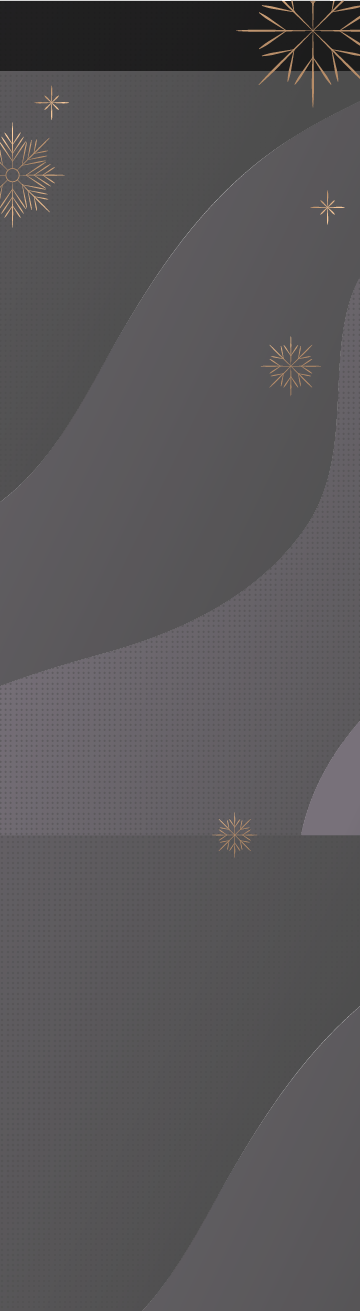
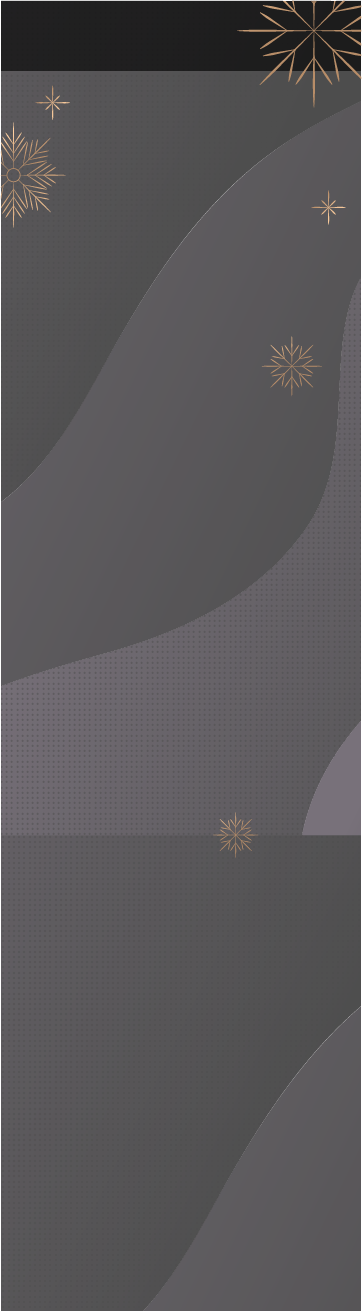
some change

diff --git a/css/style.min.css b/css/style.min.css
@@ -1,1 +1,1 @@
-.header{margin-top:55px}.header__wrapper{max-width:1000px;height:100px;margin:auto;position:relative}.header__logos{display:flex;justify-content:center;-moz-column-gap:20px;column-gap:20px}.header__logos a{height:80px;width:80px}.header .header__logos.light img{filter:invert(0) sepia(97%) saturate(5461%) hue-rotate(307deg) brightness(117%) contrast(94%)}.header .switch{cursor:pointer;position:absolute;right:10px;top:50%;transform:translateY(-50%);width:100px;height:40px;border-radius:20px;background-color:#f1c396;transition:all .5s}.header .switch__point{background-image:url(../img/SVG/moon.svg);background-size:50%;background-position:center left 40%;background-repeat:no-repeat;height:30px;width:30px;border-radius:50%;background-color:#000;position:absolute;top:50%;transform:translateY(-50%);left:5px;transition:all .5s}.header .switch__point.light{left:65px;background-image:url(../img/SVG/sun.svg);background-position:center center}.header .switch__theme{font-size:18px;position:absolute;right:20px;top:50%;transform:translateY(-50%)}.header .switch__theme.light{right:50px}.header .switch.light{background-color:#f2c76b}@font-face{font-family:Caveat;font-display:swap;src:url(../fonts/Caveat.woff2) format("woff2"),url(../fonts/Caveat.ttf2) format("ttf2");font-weight:400;font-style:normal}@font-face{font-family:Circe;font-display:swap;src:url(../fonts/Circe-Regular.woff2) format("woff2"),url(../fonts/Circe-Regular.ttf2) format("ttf2");font-weight:400;font-style:normal}.title{text-align:center;margin-top:50px}.title h1{font-size:90px;color:#fff;margin:0}.title h2{font-size:60px;color:#f1c396;margin:0}.title h1,.title h2{transition:all .5s}.title.light h1{color:#000}.title.light h2{color:#f2c76b}.team{margin-top:60px;padding-bottom:100px}.team__wrapper{max-width:1250px;margin:auto;display:flex;justify-content:space-between;flex-wrap:wrap;row-gap:60px}.team__member{height:600px;width:600px;position:relative}.team__button{position:absolute;bottom:30px;right:30px;color:#f1c396;font-size:30px;text-decoration:underline;cursor:pointer}.team__border{position:absolute;bottom:0;width:100%;height:520px;border:2px solid #fff;transition:all .5s}.team__decor{width:35px;height:35px;position:absolute;right:30px;top:30px}.team__photo{width:210px;height:310px;background-repeat:no-repeat;background-size:contain;position:absolute;left:30px;z-index:2;transition:background-image 1s ease-in-out}.team__photo img{width:90px;height:100px;position:absolute;bottom:10px;right:10px}.team__firstName,.team__secondName{color:#f1c396;font-size:56px;display:block;padding-left:300px}.team__firstName{margin-top:60px}.team__secondName{margin-bottom:40px}.team__description{max-width:485px;margin:auto;font-size:18px;line-height:140%;color:#fff;transition:all .5s}.team__description.light{color:#000}.team.light span{color:#f2c76b}.team.light p{color:#000}.team.light .team__border{border:2px solid #f2c76b}.popup{position:fixed;top:-100%;left:50%;transform:translate(-50%,-50%);width:800px;height:550px;background:#fff;z-index:5;transition:all 1s}.popup span{color:#f1c396;display:block;font-size:48px;text-align:center;margin-top:30px}.popup .close{width:20px;height:20px;position:absolute;top:20px;right:20px;cursor:pointer}.popup .close::after,.popup .close::before{content:"";position:absolute;height:2px;width:100%;background:#f1c396;transform:rotate(45deg);top:50%}.popup .close::after{transform:rotate(135deg)}.popup form{width:700px;margin:auto;margin-top:15px}.popup__text{width:100%;height:150px;border:2px solid #f1c396;outline:0;resize:none;padding-left:10px;padding-top:10px}.popup__name{display:flex;justify-content:space-between}.popup__name p{display:flex;align-items:center;-moz-column-gap:10px;column-gap:10px;position:relative}.popup__name .name{outline:0;border:2px solid #f1c396;height:35px;width:300px;padding-left:10px}.popup__name .checkbox{width:30px;margin:0;height:30px;outline:0;opacity:0}.popup__name .custom-checkbox{position:absolute;width:30px;height:30px;top:3px;right:0;margin:0;z-index:-1}.popup__name .custom-checkbox::before{content:"";position:absolute;left:-1px;width:30px;height:30px;border:1px solid #f1c396}.popup__name .custom-checkbox::after{content:"";background-image:url(../img/SVG/checked.svg);background-repeat:no-repeat;background-size:contain;background-position:center center;position:absolute;display:block;width:30px;height:30px;opacity:0}.popup__name .checkbox:checked+.custom-checkbox::after{opacity:1}.popup__list p{display:flex;justify-content:space-between;align-items:center;-moz-column-gap:15px;column-gap:15px}.popup__list .select{height:35px;border:2px solid #f1c396;flex:1;outline:0;padding-left:10px}.popup__send{margin-top:40px;display:flex;justify-content:space-between;align-items:flex-end}.popup__send .captcha-block{position:relative;width:350px;height:65px;border:1px solid grey;display:flex;align-items:center}.popup__send .captcha-block input{width:25px;height:25px}.popup__send .captcha-block p{display:flex;align-items:center;padding-left:10px;-moz-column-gap:10px;column-gap:10px}.popup__send .captcha-block img{position:absolute;right:10px;top:45%;transform:translateY(-50%);width:40px;height:40px;cursor:pointer}.popup__send .captcha-block .captcha-links{position:absolute;bottom:2px;right:10px}.popup__send .captcha-block .captcha-links a{text-decoration:none;color:grey;font-size:8px;font-family:Circe}.popup__send .submit{cursor:pointer;height:40px;font-family:Caveat;background:#f1c396;color:#000;border:none;font-size:30px;padding:0 20px}*{box-sizing:border-box}.body{margin:0;font-family:Caveat;background-repeat:no-repeat;background-position-x:center;background-size:cover;transition:background-image 1s ease-in-out;min-height:100vh}h1,p{font-family:Circe}@media screen and (max-width:1200px){.team__wrapper{justify-content:center}.body{background-size:cover}}@media screen and (max-width:800px){.popup{width:calc(100% - 100px);height:650px}.popup p{font-size:12px}.popup span{font-size:24px}.popup form{width:calc(100% - 50px)}.popup__name{align-items:center;flex-direction:column}.popup__send{flex-direction:column;align-items:center;row-gap:30px}}@media screen and (max-width:650px){.header{margin-top:180px}.header .switch{left:10px;right:auto;top:-115%}.title h1{font-size:62px}.title h2{font-size:48px}.team__member{width:calc(100% - 50px)}.team__firstName,.team__secondName{font-size:30px;padding-left:55%}.team__photo{width:160px;height:240px}.team__description{width:calc(100% - 60px);font-size:16px}.body{background-size:contain;background-repeat:repeat}}@media screen and (max-width:500px){.popup{width:calc(100% - 30px)}.popup__name{align-items:center;flex-direction:column}.popup__name p:first-child{font-size:14px;flex-direction:column;row-gap:5px}.popup__name .name{width:280px}.popup__list p{flex-direction:column;row-gap:5px;font-size:14px}.popup__list .select{flex:auto;width:280px}.popup__send{flex-direction:column;align-items:center;row-gap:30px}.popup__send .captcha-block{width:280px}}@media screen and (max-width:450px){.header{margin-top:150px}.title h1{font-size:42px}.title h2{font-size:36px}.team__member{width:calc(100% - 50px);height:520px}.team__firstName,.team__secondName{font-size:30px;padding-left:55%}.team__photo{width:110px;height:160px;top:30px}.team__photo img{width:50px;height:65px}.team__description{width:calc(100% - 60px);font-size:14px}.team__decor{width:25px;height:25px;right:10px;top:10px}.team__firstName{margin-top:30px}.team__firstName,.team__secondName{font-size:22px}.team__secondName{margin-bottom:55px}.team__border{height:450px}}
+.header{margin-top:55px}.header__wrapper{max-width:1000px;height:100px;margin:auto;position:relative}.header__logos{display:flex;justify-content:center;-moz-column-gap:20px;column-gap:20px}.header__logos a{height:80px;width:80px}.header .header__logos.light img{filter:invert(0) sepia(97%) saturate(5461%) hue-rotate(307deg) brightness(117%) contrast(94%)}.header .switch{cursor:pointer;position:absolute;right:10px;top:50%;transform:translateY(-50%);width:100px;height:40px;border-radius:20px;background-color:#f1c396;transition:all .5s}.header .switch__point{background-image:url(../img/SVG/moon.svg);background-size:50%;background-position:center left 40%;background-repeat:no-repeat;height:30px;width:30px;border-radius:50%;background-color:#000;position:absolute;top:50%;transform:translateY(-50%);left:5px;transition:all .5s}.header .switch__point.light{left:65px;background-image:url(../img/SVG/sun.svg);background-position:center center}.header .switch__theme{font-size:18px;position:absolute;right:20px;top:50%;transform:translateY(-50%)}.header .switch__theme.light{right:50px}.header .switch.light{background-color:#f2c76b}@font-face{font-family:Caveat;font-display:swap;src:url(../fonts/Caveat.woff2) format("woff2"),url(../fonts/Caveat.ttf2) format("ttf2");font-weight:400;font-style:normal}@font-face{font-family:Circe;font-display:swap;src:url(../fonts/Circe-Regular.woff2) format("woff2"),url(../fonts/Circe-Regular.ttf2) format("ttf2");font-weight:400;font-style:normal}.title{text-align:center;margin-top:50px}.title h1{font-size:90px;color:#fff;margin:0}.title h2{font-size:60px;color:#f1c396;margin:0}.title h1,.title h2{transition:all .5s}.title.light h1{color:#000}.title.light h2{color:#f2c76b}.team{margin-top:60px;padding-bottom:100px}.team__wrapper{max-width:1250px;margin:auto;display:flex;justify-content:space-between;flex-wrap:wrap;row-gap:60px}.team__member{height:600px;width:600px;position:relative}.team__button{position:absolute;bottom:30px;right:30px;color:#f1c396;font-size:30px;text-decoration:underline;background:0 0;font-family:Caveat;border:none;cursor:pointer}.team__border{position:absolute;bottom:0;width:100%;height:520px;border:2px solid #fff;transition:all .5s}.team__decor{width:35px;height:35px;position:absolute;right:30px;top:30px}.team__photo{width:210px;height:310px;background-repeat:no-repeat;background-size:contain;position:absolute;left:30px;z-index:2;transition:background-image 1s ease-in-out}.team__photo img{width:90px;height:100px;position:absolute;bottom:10px;right:10px}.team__firstName,.team__secondName{color:#f1c396;font-size:56px;display:block;padding-left:300px}.team__firstName{margin-top:60px}.team__secondName{margin-bottom:40px}.team__description{max-width:485px;margin:auto;font-size:18px;line-height:140%;color:#fff;transition:all .5s}.team__description.light{color:#000}.team.light span{color:#f2c76b}.team.light p{color:#000}.team.light .team__border{border:2px solid #f2c76b}.popup{position:fixed;top:-100%;left:50%;transform:translate(-50%,-50%);width:800px;height:550px;background:#fff;z-index:5;transition:all 1s}.popup span{color:#f1c396;display:block;font-size:48px;text-align:center;margin-top:30px}.popup .close{width:20px;height:20px;position:absolute;top:20px;right:20px;cursor:pointer}.popup .close::after,.popup .close::before{content:"";position:absolute;height:2px;width:100%;background:#f1c396;transform:rotate(45deg);top:50%}.popup .close::after{transform:rotate(135deg)}.popup form{width:700px;margin:auto;margin-top:15px}.popup__text{width:100%;height:150px;border:2px solid #f1c396;outline:0;resize:none;padding-left:10px;padding-top:10px}.popup__name{display:flex;justify-content:space-between}.popup__name p{display:flex;align-items:center;-moz-column-gap:10px;column-gap:10px;position:relative}.popup__name .name{outline:0;border:2px solid #f1c396;height:35px;width:300px;padding-left:10px}.popup__name .checkbox{width:30px;margin:0;height:30px;outline:0;opacity:0}.popup__name .custom-checkbox{position:absolute;width:30px;height:30px;top:3px;right:0;margin:0;z-index:-1}.popup__name .custom-checkbox::before{content:"";position:absolute;left:-1px;width:30px;height:30px;border:1px solid #f1c396}.popup__name .custom-checkbox::after{content:"";background-image:url(../img/SVG/checked.svg);background-repeat:no-repeat;background-size:contain;background-position:center center;position:absolute;display:block;width:30px;height:30px;opacity:0}.popup__name .checkbox:checked+.custom-checkbox::after{opacity:1}.popup__list p{display:flex;justify-content:space-between;align-items:center;-moz-column-gap:15px;column-gap:15px}.popup__list .select{height:35px;border:2px solid #f1c396;flex:1;outline:0;padding-left:10px}.popup__send{margin-top:40px;display:flex;justify-content:space-between;align-items:flex-end}.popup__send .captcha-block{position:relative;width:350px;height:65px;border:1px solid grey;display:flex;align-items:center}.popup__send .captcha-block input{width:25px;height:25px}.popup__send .captcha-block p{display:flex;align-items:center;padding-left:10px;-moz-column-gap:10px;column-gap:10px}.popup__send .captcha-block img{position:absolute;right:10px;top:45%;transform:translateY(-50%);width:40px;height:40px;cursor:pointer}.popup__send .captcha-block .captcha-links{position:absolute;bottom:2px;right:10px}.popup__send .captcha-block .captcha-links a{text-decoration:none;color:grey;font-size:8px;font-family:Circe}.popup__send .submit{cursor:pointer;height:40px;font-family:Caveat;background:#f1c396;color:#000;border:none;font-size:30px;padding:0 20px}*{box-sizing:border-box}.body{margin:0;font-family:Caveat;background-image:url(../img/1x/Bg-dark.png);background-repeat:repeat;background-position-x:center;background-size:100% auto;transition:background-image 1s ease-in-out;min-height:100vh}.body.light{background-image:url(../img/1x/Bg-light.png)}h1,p{font-family:Circe}@media screen and (max-width:1200px){.team__wrapper{justify-content:center}}@media screen and (max-width:800px){.popup{width:calc(100% - 100px);height:650px}.popup p{font-size:12px}.popup span{font-size:24px}.popup form{width:calc(100% - 50px)}.popup__name{align-items:center;flex-direction:column}.popup__send{flex-direction:column;align-items:center;row-gap:30px}}@media screen and (max-width:650px){.header{margin-top:180px}.header .switch{left:10px;right:auto;top:-115%}.title h1{font-size:62px}.title h2{font-size:48px}.team__member{width:calc(100% - 50px)}.team__firstName,.team__secondName{font-size:30px;padding-left:55%}.team__photo{width:160px;height:240px}.team__description{width:calc(100% - 60px);font-size:16px}.body{background-image:url(../img/1x/bg-dark-mobile.png);background-size:contain;background-repeat:repeat}.body.light{background-image:url(../img/1x/bg-light-mobile.png)}}@media screen and (max-width:500px){.popup{width:calc(100% - 30px)}.popup__name{align-items:center;flex-direction:column}.popup__name p:first-child{font-size:14px;flex-direction:column;row-gap:5px}.popup__name .name{width:280px}.popup__list p{flex-direction:column;row-gap:5px;font-size:14px}.popup__list .select{flex:auto;width:280px}.popup__send{flex-direction:column;align-items:center;row-gap:30px}.popup__send .captcha-block{width:280px}}@media screen and (max-width:450px){.header{margin-top:150px}.title h1{font-size:42px}.title h2{font-size:36px}.team__member{width:calc(100% - 50px);height:520px}.team__firstName,.team__secondName{font-size:30px;padding-left:55%}.team__photo{width:110px;height:160px;top:30px}.team__photo img{width:50px;height:65px}.team__description{width:calc(100% - 60px);font-size:12px}.team__decor{width:25px;height:25px;right:10px;top:10px}.team__firstName{margin-top:30px}.team__firstName,.team__secondName{font-size:28px}.team__secondName{margin-bottom:40px}.team__border{height:450px}}

diff --git a/js/index.js b/js/index.js
@@ -7,7 +7,6 @@ let title = document.querySelector('.title');
 let teamBlock = document.querySelector('.team');
 const screenWidth = window.screen.width
 
-firstBg()
 
 switcher.addEventListener('click', () => {
  teamBlock.classList.toggle('light');
@@ -29,43 +28,28 @@ function changeBg() {
  const img = new Image();
  if (!switchPoint.classList.contains('light')){
   if(screenWidth > 650){
-   img.src = './img/1x/Bg-light.png'
+   img.src = '../img/1x/Bg-light.png'
    img.onload = () => {
-    body.style.backgroundImage = `url(./img/1x/Bg-light.png)`
+    body.style.backgroundImage = `url(../img/1x/Bg-light.png)`
    };
   }else{
-   img.src = './img/1x/bg-light-mobile.png'
+   img.src = '../img/1x/bg-light-mobile.png'
    img.onload = () => {
-    body.style.backgroundImage = `url(./img/1x/bg-light-mobile.png)`
+    body.style.backgroundImage = `url(../img/1x/bg-light-mobile.png)`
    };
   }
  }else{
   if(screenWidth > 650){
-   img.src = './img/1x/Bg-dark.png'
+   img.src = '../img/1x/Bg-dark.png'
    img.onload = () => {
-    body.style.backgroundImage = `url(./img/1x/Bg-dark.png)`
+    body.style.backgroundImage = `url(../img/1x/Bg-dark.png)`
    };
   }else{
-   img.src = './img/1x/bg-dark-mobile.png'
+   img.src = '../img/1x/bg-dark-mobile.png'
    img.onload = () => {
-    body.style.backgroundImage = `url(./img/1x/bg-dark-mobile.png)`
+    body.style.backgroundImage = `url(../img/1x/bg-dark-mobile.png)`
    };
   }
  }
 }
 
-function firstBg(){
- if(screenWidth > 650){
- const img = new Image();
- img.src = './img/1x/Bg-dark.png'
- img.onload = () => {
-  body.style.backgroundImage = `url(./img/1x/Bg-dark.png)`
- };
- }else{
-  const img = new Image();
-  img.src = './img/1x/bg-dark-mobile.png'
-  img.onload = () => {
-   body.style.backgroundImage = `url(./img/1x/bg-dark-mobile.png)`
- }
-}
-}

diff --git a/css/style.css b/css/style.css
@@ -149,6 +149,9 @@
   color: #F1C396;
   font-size: 30px;
   text-decoration: underline;
+  background: none;
+  font-family: Caveat;
+  border: none;
   cursor: pointer;
 }
 
@@ -440,11 +443,16 @@
 .body {
   margin: 0;
   font-family: Caveat;
-  background-repeat: no-repeat;
+  background-image: url(../img/1x/Bg-dark.png);
+  background-repeat: repeat;
   background-position-x: center;
-  background-size: cover;
+  background-size: 100% auto;
   transition: background-image 1s ease-in-out;
   min-height: 100vh;
+}
+
+.body.light {
+  background-image: url(../img/1x/Bg-light.png);
 }
 
 h1,
@@ -455,10 +463,6 @@ p {
 @media screen and (max-width: 1200px) {
   .team__wrapper {
     justify-content: center;
-  }
-
-  .body {
-    background-size: cover;
   }
 }
 
@@ -532,8 +536,13 @@ p {
   }
 
   .body {
+    background-image: url(../img/1x/bg-dark-mobile.png);
     background-size: contain;
     background-repeat: repeat;
+  }
+
+  .body.light {
+    background-image: url(../img/1x/bg-light-mobile.png);
   }
 }
 
@@ -616,7 +625,7 @@ p {
 
   .team__description {
     width: calc(100% - 60px);
-    font-size: 14px;
+    font-size: 12px;
   }
 
   .team__decor {
@@ -632,11 +641,11 @@ p {
 
   .team__firstName,
   .team__secondName {
-    font-size: 22px;
+    font-size: 28px;
   }
 
   .team__secondName {
-    margin-bottom: 55px;
+    margin-bottom: 40px;
   }
 
   .team__border {

diff --git a/index.html b/index.html
@@ -4,7 +4,8 @@
  <meta charset="UTF-8">
  <meta http-equiv="X-UA-Compatible" content="IE=edge">
  <meta name="viewport" content="width=device-width, initial-scale=1.0">
- <link rel="stylesheet" href="css/style.min.css?_v=20221223095803">
+ <link rel="shortcut icon" href="../img/1x/favicon.png" type="image/x-icon">
+ <link rel="stylesheet" href="css/style.min.css?_v=20221223141012">
  <title>Главная</title>
 </head>
 <body class="body">
@@ -63,7 +64,7 @@
  </div>
 </div>
 </main>
-<script src="js/index.js?_v=20221223095803"></script>
-<script src="js/team.js?_v=20221223095803"></script>
+<script src="js/index.js?_v=20221223141012"></script>
+<script src="js/team.js?_v=20221223141012"></script>
 </body>
 </html>

diff --git a/js/team.js b/js/team.js
@@ -46,11 +46,18 @@ async function createElem() {
   p.className = 'team__description'
   p.textContent = json[i].Description
 
-  let button = document.createElement('span');
+  let button = document.createElement('button');
   button.className = 'team__button'
+  button.dataset.value = json[i].Value
   button.innerHTML = 'Поздравить'
 
+  button.addEventListener('click', () => {
+   select.value = button.dataset.value
+  })
+ 
+
   let option = document.createElement('option');
+  option.value = json[i].Value
   option.textContent = `${json[i].FirstName}  ${json[i].SecondName}`
 
   select.appendChild(option)
